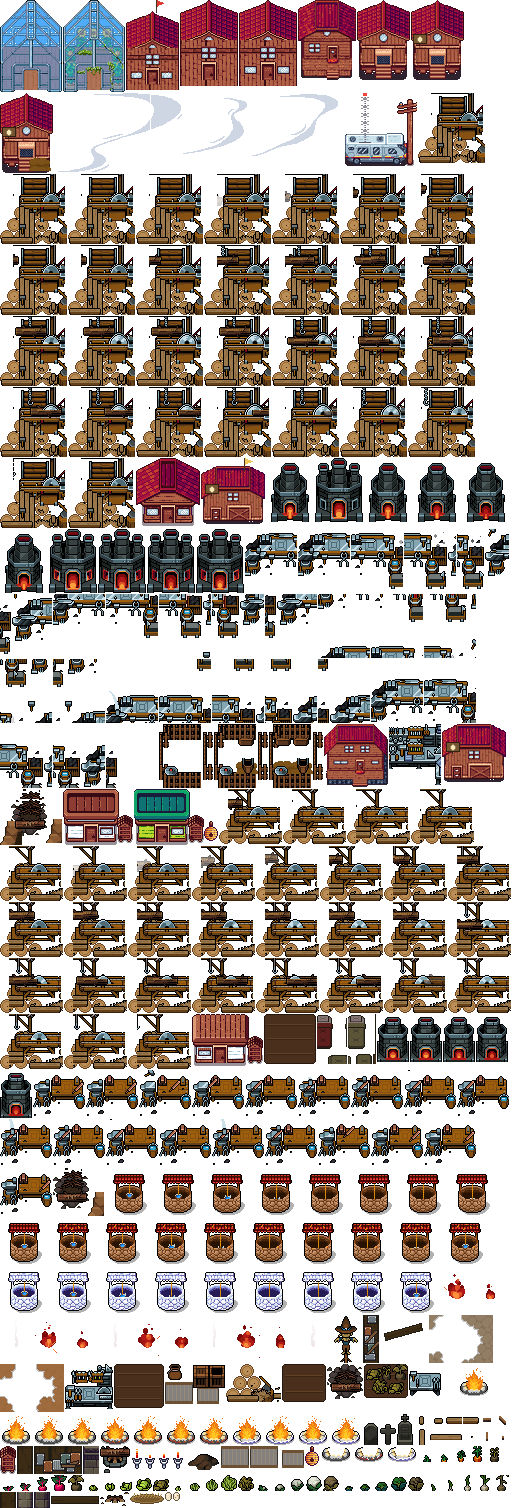
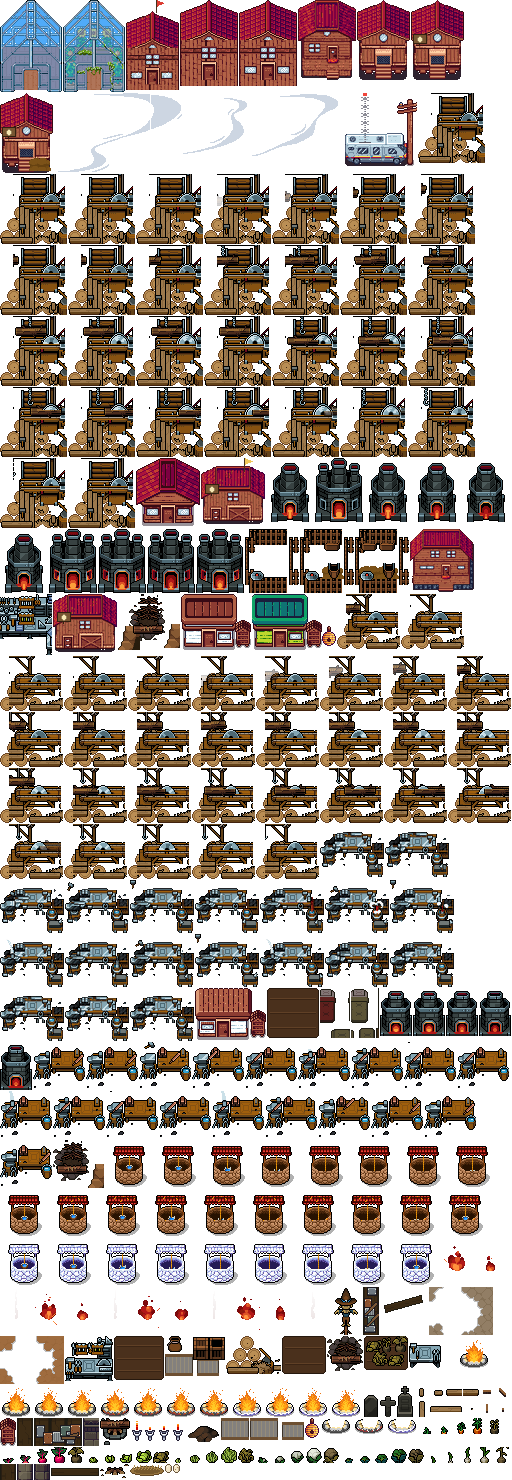
Build 2026-10-31 from 946a35a

diff --git a/index.html b/index.html
@@ -47,7 +47,7 @@ input.rename{font:700 20px var(--body);padding:6px 10px;border:3px solid #7a4a24
 .asp{display:inline-block;width:40px;height:40px;background-image:url(animals.png?v=bf5adfbd);background-repeat:no-repeat;vertical-align:middle;flex:0 0 auto}
 .sp{display:inline-block;width:32px;height:32px;background-image:url(sheet.png?v=ec2cbd7e);background-repeat:no-repeat;vertical-align:middle}
 .psp{display:inline-block;position:relative;vertical-align:middle;image-rendering:pixelated}.psp i{position:absolute;left:0;top:0;width:100%;height:100%;background-image:url(people.png?v=e573a07a);background-repeat:no-repeat}
-.bsp{display:inline-block;background-image:url(bld.png?v=6810098d);background-repeat:no-repeat;vertical-align:middle;image-rendering:pixelated}
+.bsp{display:inline-block;background-image:url(bld.png?v=5e734804);background-repeat:no-repeat;vertical-align:middle;image-rendering:pixelated}
 /* stage */
 .main{display:grid;grid-template-columns:minmax(0,1fr) auto;gap:10px;min-height:0}
 .stage{position:relative;min-width:0;min-height:0;display:flex;align-items:center;justify-content:center;background:#0b100a;border:4px solid #2a1a0e;box-shadow:0 0 0 2px #0a0f0a;overflow:hidden}
@@ -302,7 +302,7 @@ function espr(type,anim,dir,frame,x,y,flip,scale=1,alpha=1){const st=ENEMIES.set
 const eicon=(type,mul=1)=>{const st=ENEMIES.sets[type];const fi=st.anims.idle.side[0];const f=ENEMIES.frames[fi];const s=(type==='bat'?0.55:0.85)*mul;return `<span class="psp" style="width:${R_(f[2]*s)}px;height:${R_(f[3]*s)}px"><i style="background-image:url(enemies.png?v=9f983ada);background-position:-${f[0]*s}px -${f[1]*s}px;background-size:${(enImg.naturalWidth||1024)*s}px auto"></i></span>`;};
 const PORTRAITS={"size":80,"pics":{"smith-neutral":[0,0],"smith-happy":[80,0],"smith-calm":[160,0],"smith-angry":[240,0],"smith-sad":[320,0],"smith-puzzled":[400,0],"hippo-neutral":[0,80],"hippo-happy":[80,80],"hippo-calm":[160,80],"hippo-angry":[240,80],"hippo-sad":[320,80],"hippo-puzzled":[400,80],"oldman-neutral":[0,160],"oldman-happy":[80,160],"oldman-calm":[160,160],"oldman-angry":[240,160],"oldman-sad":[320,160],"oldman-puzzled":[400,160],"oldwoman-neutral":[0,240],"oldwoman-happy":[80,240],"oldwoman-calm":[160,240],"oldwoman-angry":[240,240],"oldwoman-sad":[320,240],"oldwoman-puzzled":[400,240],"woman-neutral":[0,320],"woman-happy":[80,320],"woman-calm":[160,320],"woman-angry":[240,320],"woman-sad":[320,320],"woman-puzzled":[400,320]}};   // The Game Smith portrait busts, 80px: smith, hippo, oldman, oldwoman, woman x neutral, happy, calm, angry, sad, puzzled
 const portrait=(who,mood='neutral')=>{const k=PORTRAITS.pics[who+'-'+mood]||PORTRAITS.pics[who+'-neutral'];if(!k)return '';return `<span class="por" style="background-position:-${k[0]}px -${k[1]}px"></span>`;};
-const BLD={"greenhouse_1":{"x":0,"y":0,"w":62,"h":92},"greenhouse_2":{"x":63,"y":0,"w":62,"h":92},"guardpost_3":{"x":126,"y":0,"w":53,"h":90},"guardpost_1":{"x":180,"y":0,"w":58,"h":86},"guardpost_2":{"x":239,"y":0,"w":58,"h":86},"shelter_2":{"x":298,"y":0,"w":58,"h":80},"hatchery_1":{"x":357,"y":0,"w":53,"h":80},"hatchery_2":{"x":411,"y":0,"w":53,"h":80},"hatchery_3":{"x":0,"y":93,"w":53,"h":80},"wind_0":{"x":54,"y":93,"w":96,"h":80},"wind_1":{"x":151,"y":93,"w":96,"h":80},"wind_2":{"x":248,"y":93,"w":96,"h":80},"relay_1":{"x":345,"y":93,"w":72,"h":73},"lumber_3":{"x":418,"y":93,"w":67,"h":70},"lumber_3_a0":{"x":0,"y":174,"w":67,"h":70},"lumber_3_a1":{"x":68,"y":174,"w":67,"h":70},"lumber_3_a2":{"x":136,"y":174,"w":67,"h":70},"lumber_3_a3":{"x":204,"y":174,"w":67,"h":70},"lumber_3_a4":{"x":272,"y":174,"w":67,"h":70},"lumber_3_a5":{"x":340,"y":174,"w":67,"h":70},"lumber_3_a6":{"x":408,"y":174,"w":67,"h":70},"lumber_3_a7":{"x":0,"y":245,"w":67,"h":70},"lumber_3_a8":{"x":68,"y":245,"w":67,"h":70},"lumber_3_a9":{"x":136,"y":245,"w":67,"h":70},"lumber_3_a10":{"x":204,"y":245,"w":67,"h":70},"lumber_3_a11":{"x":272,"y":245,"w":67,"h":70},"lumber_3_a12":{"x":340,"y":245,"w":67,"h":70},"lumber_3_a13":{"x":408,"y":245,"w":67,"h":70},"lumber_3_a14":{"x":0,"y":316,"w":67,"h":70},"lumber_3_a15":{"x":68,"y":316,"w":67,"h":70},"lumber_3_a16":{"x":136,"y":316,"w":67,"h":70},"lumber_3_a17":{"x":204,"y":316,"w":67,"h":70},"lumber_3_a18":{"x":272,"y":316,"w":67,"h":70},"lumber_3_a19":{"x":340,"y":316,"w":67,"h":70},"lumber_3_a20":{"x":408,"y":316,"w":67,"h":70},"lumber_3_a21":{"x":0,"y":387,"w":67,"h":70},"lumber_3_a22":{"x":68,"y":387,"w":67,"h":70},"lumber_3_a23":{"x":136,"y":387,"w":67,"h":70},"lumber_3_a24":{"x":204,"y":387,"w":67,"h":70},"lumber_3_a25":{"x":272,"y":387,"w":67,"h":70},"lumber_3_a26":{"x":340,"y":387,"w":67,"h":70},"lumber_3_a27":{"x":408,"y":387,"w":67,"h":70},"lumber_3_a28":{"x":0,"y":458,"w":67,"h":70},"lumber_3_a29":{"x":68,"y":458,"w":67,"h":70},"shelter_1":{"x":136,"y":458,"w":64,"h":68},"hatchery_5":{"x":201,"y":458,"w":64,"h":66},"scrapyard_2":{"x":266,"y":458,"w":48,"h":64},"scrapyard_3":{"x":315,"y":458,"w":48,"h":64},"scrapyard_2_a0":{"x":364,"y":458,"w":48,"h":64},"scrapyard_2_a1":{"x":413,"y":458,"w":48,"h":64},"scrapyard_2_a2":{"x":462,"y":458,"w":48,"h":64},"scrapyard_2_a3":{"x":0,"y":529,"w":48,"h":64},"scrapyard_3_a0":{"x":49,"y":529,"w":48,"h":64},"scrapyard_3_a1":{"x":98,"y":529,"w":48,"h":64},"scrapyard_3_a2":{"x":147,"y":529,"w":48,"h":64},"scrapyard_3_a3":{"x":196,"y":529,"w":48,"h":64},"workshop_2":{"x":245,"y":529,"w":52,"h":64},"workshop_2_a0":{"x":298,"y":529,"w":52,"h":64},"workshop_2_a1":{"x":351,"y":529,"w":52,"h":64},"workshop_2_a2":{"x":404,"y":529,"w":52,"h":64},"workshop_2_a3":{"x":457,"y":529,"w":52,"h":64},"workshop_2_a4":{"x":0,"y":594,"w":52,"h":64},"workshop_2_a5":{"x":53,"y":594,"w":52,"h":64},"workshop_2_a6":{"x":106,"y":594,"w":52,"h":64},"workshop_2_a7":{"x":159,"y":594,"w":52,"h":64},"workshop_2_a8":{"x":212,"y":594,"w":52,"h":64},"workshop_2_a9":{"x":265,"y":594,"w":52,"h":64},"workshop_2_a10":{"x":318,"y":594,"w":52,"h":64},"workshop_2_a11":{"x":371,"y":594,"w":52,"h":64},"workshop_2_a12":{"x":424,"y":594,"w":52,"h":64},"workshop_2_a13":{"x":0,"y":659,"w":52,"h":64},"workshop_2_a14":{"x":53,"y":659,"w":52,"h":64},"workshop_2_a15":{"x":106,"y":659,"w":52,"h":64},"workshop_2_a16":{"x":159,"y":659,"w":52,"h":64},"workshop_2_a17":{"x":212,"y":659,"w":52,"h":64},"workshop_2_a18":{"x":265,"y":659,"w":52,"h":64},"workshop_2_a19":{"x":318,"y":659,"w":52,"h":64},"workshop_2_a20":{"x":371,"y":659,"w":52,"h":64},"workshop_2_a21":{"x":424,"y":659,"w":52,"h":64},"workshop_2_a22":{"x":0,"y":724,"w":52,"h":64},"workshop_2_a23":{"x":53,"y":724,"w":52,"h":64},"workshop_2_a24":{"x":106,"y":724,"w":52,"h":64},"pen_1":{"x":159,"y":724,"w":54,"h":64},"pen_2":{"x":214,"y":724,"w":54,"h":64},"pen_3":{"x":269,"y":724,"w":54,"h":64},"shelter_3":{"x":324,"y":724,"w":64,"h":63},"lab_3":{"x":389,"y":724,"w":52,"h":61},"hatchery_4":{"x":442,"y":724,"w":64,"h":58},"signal_5":{"x":0,"y":789,"w":62,"h":56},"bughut_1":{"x":63,"y":789,"w":70,"h":56},"bughut_3":{"x":134,"y":789,"w":84,"h":56},"lumber_2":{"x":219,"y":789,"w":63,"h":55},"lumber_2_a0":{"x":283,"y":789,"w":63,"h":55},"lumber_2_a1":{"x":347,"y":789,"w":63,"h":55},"lumber_2_a2":{"x":411,"y":789,"w":63,"h":55},"lumber_2_a3":{"x":0,"y":846,"w":63,"h":55},"lumber_2_a4":{"x":64,"y":846,"w":63,"h":55},"lumber_2_a5":{"x":128,"y":846,"w":63,"h":55},"lumber_2_a6":{"x":192,"y":846,"w":63,"h":55},"lumber_2_a7":{"x":256,"y":846,"w":63,"h":55},"lumber_2_a8":{"x":320,"y":846,"w":63,"h":55},"lumber_2_a9":{"x":384,"y":846,"w":63,"h":55},"lumber_2_a10":{"x":448,"y":846,"w":63,"h":55},"lumber_2_a11":{"x":0,"y":902,"w":63,"h":55},"lumber_2_a12":{"x":64,"y":902,"w":63,"h":55},"lumber_2_a13":{"x":128,"y":902,"w":63,"h":55},"lumber_2_a14":{"x":192,"y":902,"w":63,"h":55},"lumber_2_a15":{"x":256,"y":902,"w":63,"h":55},"lumber_2_a16":{"x":320,"y":902,"w":63,"h":55},"lumber_2_a17":{"x":384,"y":902,"w":63,"h":55},"lumber_2_a18":{"x":448,"y":902,"w":63,"h":55},"lumber_2_a19":{"x":0,"y":958,"w":63,"h":55},"lumber_2_a20":{"x":64,"y":958,"w":63,"h":55},"lumber_2_a21":{"x":128,"y":958,"w":63,"h":55},"lumber_2_a22":{"x":192,"y":958,"w":63,"h":55},"lumber_2_a23":{"x":256,"y":958,"w":63,"h":55},"lumber_2_a24":{"x":320,"y":958,"w":63,"h":55},"lumber_2_a25":{"x":384,"y":958,"w":63,"h":55},"lumber_2_a26":{"x":448,"y":958,"w":63,"h":55},"lumber_2_a27":{"x":0,"y":1014,"w":63,"h":55},"lumber_2_a28":{"x":64,"y":1014,"w":63,"h":55},"lumber_2_a29":{"x":128,"y":1014,"w":63,"h":55},"bughut_2":{"x":192,"y":1014,"w":71,"h":52},"garden_3":{"x":264,"y":1014,"w":52,"h":50},"bedroll_a":{"x":317,"y":1014,"w":30,"h":50},"bedroll_b":{"x":348,"y":1014,"w":28,"h":50},"scrapyard_1":{"x":377,"y":1014,"w":32,"h":48},"scrapyard_1_a0":{"x":410,"y":1014,"w":32,"h":48},"scrapyard_1_a1":{"x":443,"y":1014,"w":32,"h":48},"scrapyard_1_a2":{"x":476,"y":1014,"w":32,"h":48},"scrapyard_1_a3":{"x":0,"y":1070,"w":32,"h":48},"workshop_1":{"x":33,"y":1070,"w":52,"h":48},"workshop_1_a0":{"x":86,"y":1070,"w":52,"h":48},"workshop_1_a1":{"x":139,"y":1070,"w":52,"h":48},"workshop_1_a2":{"x":192,"y":1070,"w":52,"h":48},"workshop_1_a3":{"x":245,"y":1070,"w":52,"h":48},"workshop_1_a4":{"x":298,"y":1070,"w":52,"h":48},"workshop_1_a5":{"x":351,"y":1070,"w":52,"h":48},"workshop_1_a6":{"x":404,"y":1070,"w":52,"h":48},"workshop_1_a7":{"x":457,"y":1070,"w":52,"h":48},"workshop_1_a8":{"x":0,"y":1119,"w":52,"h":48},"workshop_1_a9":{"x":53,"y":1119,"w":52,"h":48},"workshop_1_a10":{"x":106,"y":1119,"w":52,"h":48},"workshop_1_a11":{"x":159,"y":1119,"w":52,"h":48},"workshop_1_a12":{"x":212,"y":1119,"w":52,"h":48},"workshop_1_a13":{"x":265,"y":1119,"w":52,"h":48},"workshop_1_a14":{"x":318,"y":1119,"w":52,"h":48},"workshop_1_a15":{"x":371,"y":1119,"w":52,"h":48},"workshop_1_a16":{"x":424,"y":1119,"w":52,"h":48},"workshop_1_a17":{"x":0,"y":1168,"w":52,"h":48},"signal_4":{"x":53,"y":1168,"w":51,"h":48},"well_0_0":{"x":105,"y":1168,"w":48,"h":48},"well_0_1":{"x":154,"y":1168,"w":48,"h":48},"well_0_2":{"x":203,"y":1168,"w":48,"h":48},"well_0_3":{"x":252,"y":1168,"w":48,"h":48},"well_0_4":{"x":301,"y":1168,"w":48,"h":48},"well_0_5":{"x":350,"y":1168,"w":48,"h":48},"well_0_6":{"x":399,"y":1168,"w":48,"h":48},"well_0_7":{"x":448,"y":1168,"w":48,"h":48},"well_0_8":{"x":0,"y":1217,"w":48,"h":48},"well_2_0":{"x":49,"y":1217,"w":48,"h":48},"well_2_1":{"x":98,"y":1217,"w":48,"h":48},"well_2_2":{"x":147,"y":1217,"w":48,"h":48},"well_2_3":{"x":196,"y":1217,"w":48,"h":48},"well_2_4":{"x":245,"y":1217,"w":48,"h":48},"well_2_5":{"x":294,"y":1217,"w":48,"h":48},"well_2_6":{"x":343,"y":1217,"w":48,"h":48},"well_2_7":{"x":392,"y":1217,"w":48,"h":48},"well_2_8":{"x":441,"y":1217,"w":48,"h":48},"well_3_0":{"x":0,"y":1266,"w":48,"h":48},"well_3_1":{"x":49,"y":1266,"w":48,"h":48},"well_3_2":{"x":98,"y":1266,"w":48,"h":48},"well_3_3":{"x":147,"y":1266,"w":48,"h":48},"well_3_4":{"x":196,"y":1266,"w":48,"h":48},"well_3_5":{"x":245,"y":1266,"w":48,"h":48},"well_3_6":{"x":294,"y":1266,"w":48,"h":48},"well_3_7":{"x":343,"y":1266,"w":48,"h":48},"well_3_8":{"x":392,"y":1266,"w":48,"h":48},"fire_0":{"x":441,"y":1266,"w":32,"h":48},"fire2_0":{"x":474,"y":1266,"w":32,"h":48},"smoke_0":{"x":0,"y":1315,"w":32,"h":48},"fire_1":{"x":33,"y":1315,"w":32,"h":48},"fire2_1":{"x":66,"y":1315,"w":32,"h":48},"smoke_1":{"x":99,"y":1315,"w":32,"h":48},"fire_2":{"x":132,"y":1315,"w":32,"h":48},"fire2_2":{"x":165,"y":1315,"w":32,"h":48},"smoke_2":{"x":198,"y":1315,"w":32,"h":48},"fire_3":{"x":231,"y":1315,"w":32,"h":48},"fire2_3":{"x":264,"y":1315,"w":32,"h":48},"smoke_3":{"x":297,"y":1315,"w":32,"h":48},"scarecrow":{"x":330,"y":1315,"w":32,"h":48},"wallv_2":{"x":363,"y":1315,"w":16,"h":48},"plank_b":{"x":380,"y":1315,"w":48,"h":48},"pad_stone":{"x":429,"y":1315,"w":64,"h":48},"pad_dirt":{"x":0,"y":1364,"w":64,"h":48},"lab_2":{"x":65,"y":1364,"w":48,"h":45},"garden_2":{"x":114,"y":1364,"w":50,"h":44},"traps_3":{"x":165,"y":1364,"w":60,"h":40},"lumber_1":{"x":226,"y":1364,"w":55,"h":38},"garden_1":{"x":282,"y":1364,"w":44,"h":38},"signal_3":{"x":327,"y":1364,"w":36,"h":35},"garden_icon":{"x":364,"y":1364,"w":44,"h":34},"lab_1":{"x":409,"y":1364,"w":48,"h":32},"gfire_0_0":{"x":458,"y":1364,"w":32,"h":32},"gfire_0_1":{"x":0,"y":1413,"w":32,"h":32},"gfire_0_2":{"x":33,"y":1413,"w":32,"h":32},"gfire_0_3":{"x":66,"y":1413,"w":32,"h":32},"gfire_2_0":{"x":99,"y":1413,"w":32,"h":32},"gfire_2_1":{"x":132,"y":1413,"w":32,"h":32},"gfire_2_2":{"x":165,"y":1413,"w":32,"h":32},"gfire_2_3":{"x":198,"y":1413,"w":32,"h":32},"gfire_3_0":{"x":231,"y":1413,"w":32,"h":32},"gfire_3_1":{"x":264,"y":1413,"w":32,"h":32},"gfire_3_2":{"x":297,"y":1413,"w":32,"h":32},"gfire_3_3":{"x":330,"y":1413,"w":32,"h":32},"grave_a":{"x":363,"y":1413,"w":16,"h":32},"grave_b":{"x":380,"y":1413,"w":16,"h":32},"grave_c":{"x":397,"y":1413,"w":16,"h":32},"logs_pile":{"x":414,"y":1413,"w":48,"h":32},"ore_pile":{"x":463,"y":1413,"w":48,"h":32},"beehive":{"x":0,"y":1446,"w":16,"h":28},"wallh_1":{"x":17,"y":1446,"w":16,"h":28},"wallh_2":{"x":34,"y":1446,"w":48,"h":28},"wallh_3":{"x":83,"y":1446,"w":16,"h":28},"signal_2":{"x":100,"y":1446,"w":30,"h":27},"torch_0":{"x":131,"y":1446,"w":12,"h":24},"torch_1":{"x":144,"y":1446,"w":12,"h":24},"torch_2":{"x":157,"y":1446,"w":14,"h":24},"torch_3":{"x":172,"y":1446,"w":15,"h":24},"mound":{"x":188,"y":1446,"w":32,"h":24},"traps_1":{"x":221,"y":1446,"w":28,"h":22},"traps_2":{"x":250,"y":1446,"w":54,"h":22},"skep":{"x":305,"y":1446,"w":14,"h":20},"gring_0":{"x":320,"y":1446,"w":32,"h":16},"gring_2":{"x":353,"y":1446,"w":32,"h":16},"gring_3":{"x":386,"y":1446,"w":32,"h":16},"crop_carrot_0":{"x":419,"y":1446,"w":16,"h":16},"crop_carrot_1":{"x":436,"y":1446,"w":16,"h":16},"crop_carrot_2":{"x":453,"y":1446,"w":16,"h":16},"crop_carrot_3":{"x":470,"y":1446,"w":16,"h":16},"crop_carrot_4":{"x":487,"y":1446,"w":16,"h":16},"crop_beet_0":{"x":0,"y":1475,"w":16,"h":16},"crop_beet_1":{"x":17,"y":1475,"w":16,"h":16},"crop_beet_2":{"x":34,"y":1475,"w":16,"h":16},"crop_beet_3":{"x":51,"y":1475,"w":16,"h":16},"crop_beet_4":{"x":68,"y":1475,"w":16,"h":16},"crop_cabbage_0":{"x":85,"y":1475,"w":16,"h":16},"crop_cabbage_1":{"x":102,"y":1475,"w":16,"h":16},"crop_cabbage_2":{"x":119,"y":1475,"w":16,"h":16},"crop_cabbage_3":{"x":136,"y":1475,"w":16,"h":16},"crop_cabbage_4":{"x":153,"y":1475,"w":16,"h":16},"crop_lettuce_0":{"x":170,"y":1475,"w":16,"h":16},"crop_lettuce_1":{"x":187,"y":1475,"w":16,"h":16},"crop_lettuce_2":{"x":204,"y":1475,"w":16,"h":16},"crop_lettuce_3":{"x":221,"y":1475,"w":16,"h":16},"crop_lettuce_4":{"x":238,"y":1475,"w":16,"h":16},"crop_cauliflower_0":{"x":255,"y":1475,"w":16,"h":16},"crop_cauliflower_1":{"x":272,"y":1475,"w":16,"h":16},"crop_cauliflower_2":{"x":289,"y":1475,"w":16,"h":16},"crop_cauliflower_3":{"x":306,"y":1475,"w":16,"h":16},"crop_cauliflower_4":{"x":323,"y":1475,"w":16,"h":16},"crop_broccoli_0":{"x":340,"y":1475,"w":16,"h":16},"crop_broccoli_1":{"x":357,"y":1475,"w":16,"h":16},"crop_broccoli_2":{"x":374,"y":1475,"w":16,"h":16},"crop_broccoli_3":{"x":391,"y":1475,"w":16,"h":16},"crop_broccoli_4":{"x":408,"y":1475,"w":16,"h":16},"crop_garlic_0":{"x":425,"y":1475,"w":16,"h":16},"crop_garlic_1":{"x":442,"y":1475,"w":16,"h":16},"crop_garlic_2":{"x":459,"y":1475,"w":16,"h":16},"crop_garlic_3":{"x":476,"y":1475,"w":16,"h":16},"crop_garlic_4":{"x":493,"y":1475,"w":16,"h":16},"wallv_1":{"x":0,"y":1492,"w":16,"h":16},"wallv_3":{"x":17,"y":1492,"w":16,"h":16},"wallcap_3":{"x":34,"y":1492,"w":16,"h":16},"plank_a":{"x":51,"y":1492,"w":48,"h":16},"signal_1":{"x":100,"y":1492,"w":29,"h":14},"nest":{"x":130,"y":1492,"w":34,"h":12},"egg_a":{"x":165,"y":1492,"w":7,"h":9},"egg_b":{"x":173,"y":1492,"w":7,"h":9},"_anim":{"lumber_2":30,"lumber_3":30,"scrapyard_1":4,"scrapyard_2":4,"scrapyard_3":4,"workshop_1":18,"workshop_2":25}};const bldImg=new Image();let bldReady=false;bldImg.src='bld.png?v=6810098d';bldImg.onload=()=>{bldReady=true;};
+const BLD={"greenhouse_1":{"x":0,"y":0,"w":62,"h":92},"greenhouse_2":{"x":63,"y":0,"w":62,"h":92},"guardpost_3":{"x":126,"y":0,"w":53,"h":90},"guardpost_1":{"x":180,"y":0,"w":58,"h":86},"guardpost_2":{"x":239,"y":0,"w":58,"h":86},"shelter_2":{"x":298,"y":0,"w":58,"h":80},"hatchery_1":{"x":357,"y":0,"w":53,"h":80},"hatchery_2":{"x":411,"y":0,"w":53,"h":80},"hatchery_3":{"x":0,"y":93,"w":53,"h":80},"wind_0":{"x":54,"y":93,"w":96,"h":80},"wind_1":{"x":151,"y":93,"w":96,"h":80},"wind_2":{"x":248,"y":93,"w":96,"h":80},"relay_1":{"x":345,"y":93,"w":72,"h":73},"lumber_3":{"x":418,"y":93,"w":67,"h":70},"lumber_3_a0":{"x":0,"y":174,"w":67,"h":70},"lumber_3_a1":{"x":68,"y":174,"w":67,"h":70},"lumber_3_a2":{"x":136,"y":174,"w":67,"h":70},"lumber_3_a3":{"x":204,"y":174,"w":67,"h":70},"lumber_3_a4":{"x":272,"y":174,"w":67,"h":70},"lumber_3_a5":{"x":340,"y":174,"w":67,"h":70},"lumber_3_a6":{"x":408,"y":174,"w":67,"h":70},"lumber_3_a7":{"x":0,"y":245,"w":67,"h":70},"lumber_3_a8":{"x":68,"y":245,"w":67,"h":70},"lumber_3_a9":{"x":136,"y":245,"w":67,"h":70},"lumber_3_a10":{"x":204,"y":245,"w":67,"h":70},"lumber_3_a11":{"x":272,"y":245,"w":67,"h":70},"lumber_3_a12":{"x":340,"y":245,"w":67,"h":70},"lumber_3_a13":{"x":408,"y":245,"w":67,"h":70},"lumber_3_a14":{"x":0,"y":316,"w":67,"h":70},"lumber_3_a15":{"x":68,"y":316,"w":67,"h":70},"lumber_3_a16":{"x":136,"y":316,"w":67,"h":70},"lumber_3_a17":{"x":204,"y":316,"w":67,"h":70},"lumber_3_a18":{"x":272,"y":316,"w":67,"h":70},"lumber_3_a19":{"x":340,"y":316,"w":67,"h":70},"lumber_3_a20":{"x":408,"y":316,"w":67,"h":70},"lumber_3_a21":{"x":0,"y":387,"w":67,"h":70},"lumber_3_a22":{"x":68,"y":387,"w":67,"h":70},"lumber_3_a23":{"x":136,"y":387,"w":67,"h":70},"lumber_3_a24":{"x":204,"y":387,"w":67,"h":70},"lumber_3_a25":{"x":272,"y":387,"w":67,"h":70},"lumber_3_a26":{"x":340,"y":387,"w":67,"h":70},"lumber_3_a27":{"x":408,"y":387,"w":67,"h":70},"lumber_3_a28":{"x":0,"y":458,"w":67,"h":70},"lumber_3_a29":{"x":68,"y":458,"w":67,"h":70},"shelter_1":{"x":136,"y":458,"w":64,"h":68},"hatchery_5":{"x":201,"y":458,"w":64,"h":66},"scrapyard_2":{"x":266,"y":458,"w":48,"h":64},"scrapyard_3":{"x":315,"y":458,"w":48,"h":64},"scrapyard_2_a0":{"x":364,"y":458,"w":48,"h":64},"scrapyard_2_a1":{"x":413,"y":458,"w":48,"h":64},"scrapyard_2_a2":{"x":462,"y":458,"w":48,"h":64},"scrapyard_2_a3":{"x":0,"y":529,"w":48,"h":64},"scrapyard_3_a0":{"x":49,"y":529,"w":48,"h":64},"scrapyard_3_a1":{"x":98,"y":529,"w":48,"h":64},"scrapyard_3_a2":{"x":147,"y":529,"w":48,"h":64},"scrapyard_3_a3":{"x":196,"y":529,"w":48,"h":64},"pen_1":{"x":245,"y":529,"w":54,"h":64},"pen_2":{"x":300,"y":529,"w":54,"h":64},"pen_3":{"x":355,"y":529,"w":54,"h":64},"shelter_3":{"x":410,"y":529,"w":64,"h":63},"lab_3":{"x":0,"y":594,"w":52,"h":61},"hatchery_4":{"x":53,"y":594,"w":64,"h":58},"signal_5":{"x":118,"y":594,"w":62,"h":56},"bughut_1":{"x":181,"y":594,"w":70,"h":56},"bughut_3":{"x":252,"y":594,"w":84,"h":56},"lumber_2":{"x":337,"y":594,"w":63,"h":55},"lumber_2_a0":{"x":401,"y":594,"w":63,"h":55},"lumber_2_a1":{"x":0,"y":656,"w":63,"h":55},"lumber_2_a2":{"x":64,"y":656,"w":63,"h":55},"lumber_2_a3":{"x":128,"y":656,"w":63,"h":55},"lumber_2_a4":{"x":192,"y":656,"w":63,"h":55},"lumber_2_a5":{"x":256,"y":656,"w":63,"h":55},"lumber_2_a6":{"x":320,"y":656,"w":63,"h":55},"lumber_2_a7":{"x":384,"y":656,"w":63,"h":55},"lumber_2_a8":{"x":448,"y":656,"w":63,"h":55},"lumber_2_a9":{"x":0,"y":712,"w":63,"h":55},"lumber_2_a10":{"x":64,"y":712,"w":63,"h":55},"lumber_2_a11":{"x":128,"y":712,"w":63,"h":55},"lumber_2_a12":{"x":192,"y":712,"w":63,"h":55},"lumber_2_a13":{"x":256,"y":712,"w":63,"h":55},"lumber_2_a14":{"x":320,"y":712,"w":63,"h":55},"lumber_2_a15":{"x":384,"y":712,"w":63,"h":55},"lumber_2_a16":{"x":448,"y":712,"w":63,"h":55},"lumber_2_a17":{"x":0,"y":768,"w":63,"h":55},"lumber_2_a18":{"x":64,"y":768,"w":63,"h":55},"lumber_2_a19":{"x":128,"y":768,"w":63,"h":55},"lumber_2_a20":{"x":192,"y":768,"w":63,"h":55},"lumber_2_a21":{"x":256,"y":768,"w":63,"h":55},"lumber_2_a22":{"x":320,"y":768,"w":63,"h":55},"lumber_2_a23":{"x":384,"y":768,"w":63,"h":55},"lumber_2_a24":{"x":448,"y":768,"w":63,"h":55},"lumber_2_a25":{"x":0,"y":824,"w":63,"h":55},"lumber_2_a26":{"x":64,"y":824,"w":63,"h":55},"lumber_2_a27":{"x":128,"y":824,"w":63,"h":55},"lumber_2_a28":{"x":192,"y":824,"w":63,"h":55},"lumber_2_a29":{"x":256,"y":824,"w":63,"h":55},"workshop_2":{"x":320,"y":824,"w":64,"h":53},"workshop_2_a0":{"x":385,"y":824,"w":64,"h":53},"workshop_2_a1":{"x":0,"y":880,"w":64,"h":53},"workshop_2_a2":{"x":65,"y":880,"w":64,"h":53},"workshop_2_a3":{"x":130,"y":880,"w":64,"h":53},"workshop_2_a4":{"x":195,"y":880,"w":64,"h":53},"workshop_2_a5":{"x":260,"y":880,"w":64,"h":53},"workshop_2_a6":{"x":325,"y":880,"w":64,"h":53},"workshop_2_a7":{"x":390,"y":880,"w":64,"h":53},"workshop_2_a8":{"x":0,"y":934,"w":64,"h":53},"workshop_2_a9":{"x":65,"y":934,"w":64,"h":53},"workshop_2_a10":{"x":130,"y":934,"w":64,"h":53},"workshop_2_a11":{"x":195,"y":934,"w":64,"h":53},"workshop_2_a12":{"x":260,"y":934,"w":64,"h":53},"workshop_2_a13":{"x":325,"y":934,"w":64,"h":53},"workshop_2_a14":{"x":390,"y":934,"w":64,"h":53},"workshop_2_a15":{"x":0,"y":988,"w":64,"h":53},"workshop_2_a16":{"x":65,"y":988,"w":64,"h":53},"workshop_2_a17":{"x":130,"y":988,"w":64,"h":53},"bughut_2":{"x":195,"y":988,"w":71,"h":52},"garden_3":{"x":267,"y":988,"w":52,"h":50},"bedroll_a":{"x":320,"y":988,"w":30,"h":50},"bedroll_b":{"x":351,"y":988,"w":28,"h":50},"scrapyard_1":{"x":380,"y":988,"w":32,"h":48},"scrapyard_1_a0":{"x":413,"y":988,"w":32,"h":48},"scrapyard_1_a1":{"x":446,"y":988,"w":32,"h":48},"scrapyard_1_a2":{"x":479,"y":988,"w":32,"h":48},"scrapyard_1_a3":{"x":0,"y":1042,"w":32,"h":48},"workshop_1":{"x":33,"y":1042,"w":52,"h":48},"workshop_1_a0":{"x":86,"y":1042,"w":52,"h":48},"workshop_1_a1":{"x":139,"y":1042,"w":52,"h":48},"workshop_1_a2":{"x":192,"y":1042,"w":52,"h":48},"workshop_1_a3":{"x":245,"y":1042,"w":52,"h":48},"workshop_1_a4":{"x":298,"y":1042,"w":52,"h":48},"workshop_1_a5":{"x":351,"y":1042,"w":52,"h":48},"workshop_1_a6":{"x":404,"y":1042,"w":52,"h":48},"workshop_1_a7":{"x":457,"y":1042,"w":52,"h":48},"workshop_1_a8":{"x":0,"y":1091,"w":52,"h":48},"workshop_1_a9":{"x":53,"y":1091,"w":52,"h":48},"workshop_1_a10":{"x":106,"y":1091,"w":52,"h":48},"workshop_1_a11":{"x":159,"y":1091,"w":52,"h":48},"workshop_1_a12":{"x":212,"y":1091,"w":52,"h":48},"workshop_1_a13":{"x":265,"y":1091,"w":52,"h":48},"workshop_1_a14":{"x":318,"y":1091,"w":52,"h":48},"workshop_1_a15":{"x":371,"y":1091,"w":52,"h":48},"workshop_1_a16":{"x":424,"y":1091,"w":52,"h":48},"workshop_1_a17":{"x":0,"y":1140,"w":52,"h":48},"signal_4":{"x":53,"y":1140,"w":51,"h":48},"well_0_0":{"x":105,"y":1140,"w":48,"h":48},"well_0_1":{"x":154,"y":1140,"w":48,"h":48},"well_0_2":{"x":203,"y":1140,"w":48,"h":48},"well_0_3":{"x":252,"y":1140,"w":48,"h":48},"well_0_4":{"x":301,"y":1140,"w":48,"h":48},"well_0_5":{"x":350,"y":1140,"w":48,"h":48},"well_0_6":{"x":399,"y":1140,"w":48,"h":48},"well_0_7":{"x":448,"y":1140,"w":48,"h":48},"well_0_8":{"x":0,"y":1189,"w":48,"h":48},"well_2_0":{"x":49,"y":1189,"w":48,"h":48},"well_2_1":{"x":98,"y":1189,"w":48,"h":48},"well_2_2":{"x":147,"y":1189,"w":48,"h":48},"well_2_3":{"x":196,"y":1189,"w":48,"h":48},"well_2_4":{"x":245,"y":1189,"w":48,"h":48},"well_2_5":{"x":294,"y":1189,"w":48,"h":48},"well_2_6":{"x":343,"y":1189,"w":48,"h":48},"well_2_7":{"x":392,"y":1189,"w":48,"h":48},"well_2_8":{"x":441,"y":1189,"w":48,"h":48},"well_3_0":{"x":0,"y":1238,"w":48,"h":48},"well_3_1":{"x":49,"y":1238,"w":48,"h":48},"well_3_2":{"x":98,"y":1238,"w":48,"h":48},"well_3_3":{"x":147,"y":1238,"w":48,"h":48},"well_3_4":{"x":196,"y":1238,"w":48,"h":48},"well_3_5":{"x":245,"y":1238,"w":48,"h":48},"well_3_6":{"x":294,"y":1238,"w":48,"h":48},"well_3_7":{"x":343,"y":1238,"w":48,"h":48},"well_3_8":{"x":392,"y":1238,"w":48,"h":48},"fire_0":{"x":441,"y":1238,"w":32,"h":48},"fire2_0":{"x":474,"y":1238,"w":32,"h":48},"smoke_0":{"x":0,"y":1287,"w":32,"h":48},"fire_1":{"x":33,"y":1287,"w":32,"h":48},"fire2_1":{"x":66,"y":1287,"w":32,"h":48},"smoke_1":{"x":99,"y":1287,"w":32,"h":48},"fire_2":{"x":132,"y":1287,"w":32,"h":48},"fire2_2":{"x":165,"y":1287,"w":32,"h":48},"smoke_2":{"x":198,"y":1287,"w":32,"h":48},"fire_3":{"x":231,"y":1287,"w":32,"h":48},"fire2_3":{"x":264,"y":1287,"w":32,"h":48},"smoke_3":{"x":297,"y":1287,"w":32,"h":48},"scarecrow":{"x":330,"y":1287,"w":32,"h":48},"wallv_2":{"x":363,"y":1287,"w":16,"h":48},"plank_b":{"x":380,"y":1287,"w":48,"h":48},"pad_stone":{"x":429,"y":1287,"w":64,"h":48},"pad_dirt":{"x":0,"y":1336,"w":64,"h":48},"lab_2":{"x":65,"y":1336,"w":48,"h":45},"garden_2":{"x":114,"y":1336,"w":50,"h":44},"traps_3":{"x":165,"y":1336,"w":60,"h":40},"lumber_1":{"x":226,"y":1336,"w":55,"h":38},"garden_1":{"x":282,"y":1336,"w":44,"h":38},"signal_3":{"x":327,"y":1336,"w":36,"h":35},"garden_icon":{"x":364,"y":1336,"w":44,"h":34},"lab_1":{"x":409,"y":1336,"w":48,"h":32},"gfire_0_0":{"x":458,"y":1336,"w":32,"h":32},"gfire_0_1":{"x":0,"y":1385,"w":32,"h":32},"gfire_0_2":{"x":33,"y":1385,"w":32,"h":32},"gfire_0_3":{"x":66,"y":1385,"w":32,"h":32},"gfire_2_0":{"x":99,"y":1385,"w":32,"h":32},"gfire_2_1":{"x":132,"y":1385,"w":32,"h":32},"gfire_2_2":{"x":165,"y":1385,"w":32,"h":32},"gfire_2_3":{"x":198,"y":1385,"w":32,"h":32},"gfire_3_0":{"x":231,"y":1385,"w":32,"h":32},"gfire_3_1":{"x":264,"y":1385,"w":32,"h":32},"gfire_3_2":{"x":297,"y":1385,"w":32,"h":32},"gfire_3_3":{"x":330,"y":1385,"w":32,"h":32},"grave_a":{"x":363,"y":1385,"w":16,"h":32},"grave_b":{"x":380,"y":1385,"w":16,"h":32},"grave_c":{"x":397,"y":1385,"w":16,"h":32},"logs_pile":{"x":414,"y":1385,"w":48,"h":32},"ore_pile":{"x":463,"y":1385,"w":48,"h":32},"beehive":{"x":0,"y":1418,"w":16,"h":28},"wallh_1":{"x":17,"y":1418,"w":16,"h":28},"wallh_2":{"x":34,"y":1418,"w":48,"h":28},"wallh_3":{"x":83,"y":1418,"w":16,"h":28},"signal_2":{"x":100,"y":1418,"w":30,"h":27},"torch_0":{"x":131,"y":1418,"w":12,"h":24},"torch_1":{"x":144,"y":1418,"w":12,"h":24},"torch_2":{"x":157,"y":1418,"w":14,"h":24},"torch_3":{"x":172,"y":1418,"w":15,"h":24},"mound":{"x":188,"y":1418,"w":32,"h":24},"traps_1":{"x":221,"y":1418,"w":28,"h":22},"traps_2":{"x":250,"y":1418,"w":54,"h":22},"skep":{"x":305,"y":1418,"w":14,"h":20},"gring_0":{"x":320,"y":1418,"w":32,"h":16},"gring_2":{"x":353,"y":1418,"w":32,"h":16},"gring_3":{"x":386,"y":1418,"w":32,"h":16},"crop_carrot_0":{"x":419,"y":1418,"w":16,"h":16},"crop_carrot_1":{"x":436,"y":1418,"w":16,"h":16},"crop_carrot_2":{"x":453,"y":1418,"w":16,"h":16},"crop_carrot_3":{"x":470,"y":1418,"w":16,"h":16},"crop_carrot_4":{"x":487,"y":1418,"w":16,"h":16},"crop_beet_0":{"x":0,"y":1447,"w":16,"h":16},"crop_beet_1":{"x":17,"y":1447,"w":16,"h":16},"crop_beet_2":{"x":34,"y":1447,"w":16,"h":16},"crop_beet_3":{"x":51,"y":1447,"w":16,"h":16},"crop_beet_4":{"x":68,"y":1447,"w":16,"h":16},"crop_cabbage_0":{"x":85,"y":1447,"w":16,"h":16},"crop_cabbage_1":{"x":102,"y":1447,"w":16,"h":16},"crop_cabbage_2":{"x":119,"y":1447,"w":16,"h":16},"crop_cabbage_3":{"x":136,"y":1447,"w":16,"h":16},"crop_cabbage_4":{"x":153,"y":1447,"w":16,"h":16},"crop_lettuce_0":{"x":170,"y":1447,"w":16,"h":16},"crop_lettuce_1":{"x":187,"y":1447,"w":16,"h":16},"crop_lettuce_2":{"x":204,"y":1447,"w":16,"h":16},"crop_lettuce_3":{"x":221,"y":1447,"w":16,"h":16},"crop_lettuce_4":{"x":238,"y":1447,"w":16,"h":16},"crop_cauliflower_0":{"x":255,"y":1447,"w":16,"h":16},"crop_cauliflower_1":{"x":272,"y":1447,"w":16,"h":16},"crop_cauliflower_2":{"x":289,"y":1447,"w":16,"h":16},"crop_cauliflower_3":{"x":306,"y":1447,"w":16,"h":16},"crop_cauliflower_4":{"x":323,"y":1447,"w":16,"h":16},"crop_broccoli_0":{"x":340,"y":1447,"w":16,"h":16},"crop_broccoli_1":{"x":357,"y":1447,"w":16,"h":16},"crop_broccoli_2":{"x":374,"y":1447,"w":16,"h":16},"crop_broccoli_3":{"x":391,"y":1447,"w":16,"h":16},"crop_broccoli_4":{"x":408,"y":1447,"w":16,"h":16},"crop_garlic_0":{"x":425,"y":1447,"w":16,"h":16},"crop_garlic_1":{"x":442,"y":1447,"w":16,"h":16},"crop_garlic_2":{"x":459,"y":1447,"w":16,"h":16},"crop_garlic_3":{"x":476,"y":1447,"w":16,"h":16},"crop_garlic_4":{"x":493,"y":1447,"w":16,"h":16},"wallv_1":{"x":0,"y":1464,"w":16,"h":16},"wallv_3":{"x":17,"y":1464,"w":16,"h":16},"wallcap_3":{"x":34,"y":1464,"w":16,"h":16},"plank_a":{"x":51,"y":1464,"w":48,"h":16},"signal_1":{"x":100,"y":1464,"w":29,"h":14},"nest":{"x":130,"y":1464,"w":34,"h":12},"egg_a":{"x":165,"y":1464,"w":7,"h":9},"egg_b":{"x":173,"y":1464,"w":7,"h":9},"_anim":{"lumber_2":30,"lumber_3":30,"scrapyard_1":4,"scrapyard_2":4,"scrapyard_3":4,"workshop_1":18,"workshop_2":18}};const bldImg=new Image();let bldReady=false;bldImg.src='bld.png?v=5e734804';bldImg.onload=()=>{bldReady=true;};
 function bspr(name,x,y,scale=1.25,alpha=1){const a=BLD[name];if(!a||!bldReady)return false;ctx.save();ctx.globalAlpha=alpha;ctx.drawImage(bldImg,a.x,a.y,a.w,a.h,Math.round(x-a.w*scale/2),Math.round(y-a.h*scale),Math.round(a.w*scale),Math.round(a.h*scale));ctx.restore();return true;}
 const bname=(type,lvl)=>BLD[`${type}_${lvl}`]?`${type}_${lvl}`:BLD[`${type}_1`]?`${type}_1`:null;
 const VEGS=['carrot','beet','cabbage','lettuce','cauliflower','broccoli','garlic'];
